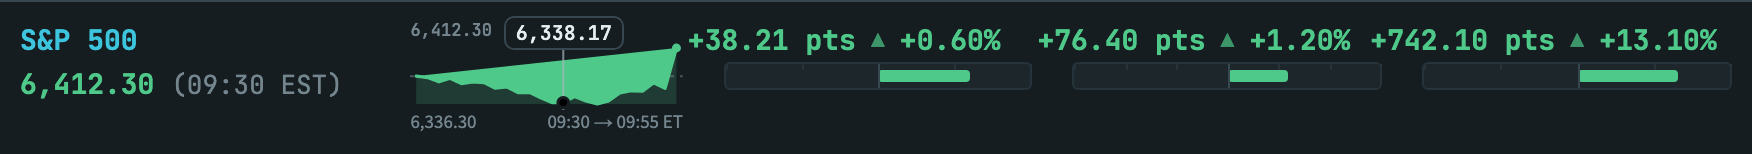
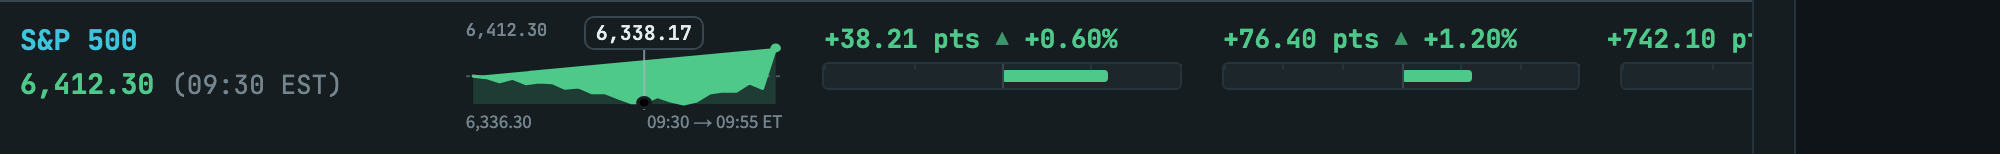
Three ways a quote table went wrong
None of them were the trend drawing, which still renders exactly as it was
built — docs/mock-brief-trend.png is that code, today.

1. A brief shipped with SPARKS missing ENTIRELY and said nothing. The TREND
   column never disappears, so every row drew an em dash and the table kept
   its shape, which is the right rendering and the wrong silence: the run
   did not know it had dropped the feature and neither did the reader.
   `brief render` now names the rows that have no series, on stderr, while
   the run can still go back for the data.

2. A wide figure painted over the next column. "+3,286.69 pts" is one nowrap
   line pinned either side of the bar's zero, so it grows out of its cell;
   measured, it starts colliding below about 1050px. Shrinking the type only
   moves that width, so the figures are 13px AND the market tables keep
   1000px between their three horizon columns, scrolling inside their own
   wrapper below that the way every other table here already does. Nothing
   is clipped: zero spill from 1400px down to 420px, no page overflow.

3. "New this window" started at the left edge of a diverging scale, where it
   reads as a heading for the negative half. It now centres on the middle
   cell, over the zero — the email's version of the page's dot_head rule.
   Scoped to that caption: 1D, 1W and YTD name their column rather than
   caption a scale, and stay left-aligned, which two tests already said.

diff --git a/brief/render.py b/brief/render.py
@@ -661,7 +661,7 @@ td.num{{text-align:right;white-space:nowrap}}
 .barfig{{display:block;text-align:center;margin-bottom:2px}}
 /* and its ARROW is what sits on the zero: the mark that says which way belongs
    on the line the bar grows from, not at the end of the text. */
-.barfig.trio{{position:relative;height:19px;width:100%;min-width:150px;max-width:280px;margin:0 auto 2px}}
+.barfig.trio{{position:relative;height:19px;width:100%;min-width:150px;max-width:280px;margin:0 auto 2px;font-size:13px}}
 .barfig.trio span{{position:absolute;top:0;white-space:nowrap}}
 .barfig.trio .l{{right:50%;margin-right:11px}}
 .barfig.trio .c{{left:50%;transform:translateX(-50%);font-size:.82em;opacity:.7}}
@@ -682,6 +682,14 @@ ul{{margin:8px 0 0;padding-left:20px}} li{{margin:9px 0;line-height:1.55}}
 .grid3 .card.wide{{grid-column:1/-1}}
 .grid3 .card.wide .tbl-wrap table{{font-size:14px}} .grid3 .card.wide th,.grid3 .card.wide td{{padding:9px 10px}}
 .grid3 .card.wide .dbar,.grid3 .card.wide .daxis{{width:100%;min-width:120px;max-width:none}}
+/* A horizon figure is one nowrap line pinned either side of the bar's zero,
+   so a wide number ("+3,286.69 pts") grows OUT of its cell and paints over
+   the column beside it. Shrinking the type only moves the width at which
+   that happens; the three horizon columns need about 1000px between them,
+   so below that the table scrolls inside its own wrapper the way every
+   other table here already does. Nothing is clipped and no digit is lost.
+   Not inside the phone breakpoint, where the table is not a table. */
+@media (min-width:601px){{.grid3 .card.wide .tbl-wrap table{{min-width:1000px}}}}
 .hp .t{{font-weight:600;font-family:Archivo,sans-serif}} .hp.warn .t{{color:var(--warning)}} .hp.ok .t{{color:var(--positive)}} .hp.info .t{{color:var(--accent)}}
 details{{background:var(--surface);border:1px solid var(--line);border-radius:10px;padding:10px 16px;margin-top:18px}} summary{{cursor:pointer;font-family:Archivo,sans-serif;font-weight:600;font-size:14px}}
 .allow p{{font-size:12.5px;margin:6px 0}} .allow b{{color:var(--ink-2)}}
@@ -2154,7 +2162,7 @@ def card(inner): return f'<table width="100%" cellpadding="0" cellspacing="0" st
 class Raw(str):
     """A header string that is already HTML and must not be escaped."""
 def th(t, w=None): return f'<th align="left"{f" width={chr(34)}{w}{chr(34)}" if w else ""} style="font:600 10.5px {F_H};text-transform:uppercase;color:{L["ink3"]};padding:8px 8px;border-bottom:2px solid {L["lineS"]}">{t if isinstance(t, Raw) else e(t)}</th>'
-def th_axis(name, labels):
+def th_axis(name, labels, over_zero=False):
     """Two lines: the column name, then its axis.
 
     The axis is laid out as three equal cells rather than a run of text, so the
@@ -2164,16 +2172,21 @@ def th_axis(name, labels):
     geometry it describes. The email cannot position elements, but equal-width
     table cells with align= give the same result, and both survive the sanitizer.
 
-    THE NAME IS CENTRED FOR THE SAME REASON. Left-aligned, "Direction · amount"
-    began at the far end of a diverging track and read as a heading for the
-    negative half; the zero it describes is at the middle cell, i.e. the middle
-    of the column, so the name sits there too.
+    `over_zero` centres the NAME on that same middle cell. It is for a caption
+    that describes the whole diverging scale — "New this window" over an
+    Out ← 0 → In axis — which reads as a heading for the negative half when it
+    starts at the left edge, the page's `dot_head` case. It is NOT for "1D",
+    "1W" or "YTD": those name their column rather than caption a scale, and
+    they are left-aligned on purpose.
     """
     lo, mid, hi = labels
     cell = f"font:400 10px {F_M};text-transform:none;letter-spacing:0;color:{L['ink3']};padding:0"
+    # align= rather than a style, because the sanitizer keeps attributes and
+    # strips text-align from a <div> often enough not to rely on it. The name
+    # centres on 50%, which is where the middle cell below centres its "0".
     return Raw(
-        f'<div>{e(name)}</div>'
-        f'<table width="100%" cellpadding="0" cellspacing="0" style="margin-top:1px">'
+        (f'<div align="center">{e(name)}</div>' if over_zero else f'<div>{e(name)}</div>')
+        + f'<table width="100%" cellpadding="0" cellspacing="0" style="margin-top:1px">'
         f'<tr><td width="33%" align="left" style="{cell}">{e(lo)}</td>'
         f'<td width="34%" align="center" style="{cell}">{e(mid)}</td>'
         f'<td width="33%" align="right" style="{cell}">{e(hi)}</td></tr></table>')
@@ -2746,7 +2759,7 @@ def email_html(budget=None):
                     + '</td>'])
         inner += h3("AI services — billed year to date") + tbl(
             [f'Service · share AI spend {AI_SPEND["year"]}', f'Billed {AI_SPEND["year"]}',
-             th_axis("New this window", money_labels(AI_AXIS))],
+             th_axis("New this window", money_labels(AI_AXIS), over_zero=True)],
             rws, ["40%", "22%", "38%"]) + cap(ai_spend_caption())
     if FIN_INTERNAL:
         inner += h3("Transfers between your own accounts") + f'<div style="color:{L["ink3"]};font-style:italic">{e(FIN_INTERNAL)}</div>'

diff --git a/tests/test_units.py b/tests/test_units.py
@@ -853,3 +853,51 @@ class TestAGateNeedsAFloor(unittest.TestCase):
         self.assertIn("at most ONCE", prompt)
         self.assertNotIn("rewrite the draft as many times as it takes", prompt,
                          "unbounded retries are what produced the silent day")
+
+
+class TestASilentlyMissingTrendIsLoud(unittest.TestCase):
+    """The TREND column never disappears, so its absence has to be announced.
+
+    An absent series draws an em dash and the table keeps its shape, which is
+    the right rendering and the wrong silence: on 2026-09-26 a brief shipped
+    with SPARKS missing entirely, every row reading "—", and nothing said so.
+    The run did not know it had dropped the feature and neither did the reader.
+    """
+
+    def _render(self, payload_obj):
+        import subprocess, tempfile
+        d = tempfile.mkdtemp()
+        f = os.path.join(d, "p.json")
+        with open(f, "w", encoding="utf-8") as fh:
+            json.dump(payload_obj, fh)
+        r = subprocess.run([sys.executable, "-m", "brief", "render", f,
+                            "--out-dir", d, "--date", "2026-03-03"],
+                           cwd=ROOT, capture_output=True, text=True)
+        self.assertEqual(r.returncode, 0, r.stderr)
+        return r.stderr
+
+    def test_a_payload_with_no_sparks_at_all_says_so_by_name(self):
+        p = json.load(open(SAMPLE, encoding="utf-8"))
+        p.pop("SPARKS", None)
+        err = self._render(p)
+        self.assertIn("no trend series", err)
+        self.assertIn("SPARKS is absent entirely", err)
+        self.assertIn(p["MKT_ROWS"][0][0], err, "it names the rows that lost their trend")
+
+    def test_a_partial_payload_counts_what_is_missing(self):
+        p = json.load(open(SAMPLE, encoding="utf-8"))
+        rows = [r[0] for r in p["MKT_ROWS"]] + [r[0] for r in p["FUNDS"]]
+        self.assertGreater(len(rows), 1)
+        p["SPARKS"] = {rows[0]: {"series": [1.0, 2.0, 3.0], "window": "09:30 → 09:55 ET"}}
+        err = self._render(p)
+        self.assertIn("no trend series", err)
+        self.assertNotIn("absent entirely", err)
+        self.assertNotIn(f" {rows[0]},", err, "the row that HAS a series is not listed")
+
+    def test_a_complete_payload_says_nothing(self):
+        p = json.load(open(SAMPLE, encoding="utf-8"))
+        names = ([r[0] for r in p["MKT_ROWS"]] + [r[0] for r in p["FUNDS"]]
+                 + [r[0] for r in p["STOCKS"]] + [r[0] for r in p["CRYPTO_ROWS"]])
+        p["SPARKS"] = {n: {"series": [1.0, 2.0, 3.0], "window": "09:30 → 09:55 ET"}
+                       for n in names}
+        self.assertNotIn("no trend series", self._render(p))

diff --git a/brief/__main__.py b/brief/__main__.py
@@ -356,6 +356,39 @@ def _verify(source, readback, attempt=1):
     return 5
 
 
+def _warn_missing_sparks(payload):
+    """Say which quote rows have no trend series, loudly, by name.
+
+    The TREND column never disappears — an absent series draws an em dash, so
+    the table keeps its shape whatever the run managed to gather. The cost of
+    that is silence: on 2026-09-26 a brief shipped with SPARKS missing
+    ENTIRELY, every row reading "—", and nothing anywhere said so. The run
+    did not know it had dropped the feature and neither did the reader.
+
+    A drawing nobody asked for is a nice-to-have. A drawing that was asked for
+    and is quietly absent is a defect, and this is what makes it visible while
+    the run can still go back for the data.
+    """
+    sparks = payload.get("SPARKS") or {}
+    wanted = []
+    for key, idx in (("MKT_ROWS", 0), ("FUNDS", 0), ("STOCKS", 0), ("CRYPTO_ROWS", 0)):
+        for row in payload.get(key) or []:
+            if row and str(row[idx]).strip():
+                wanted.append(str(row[idx]).strip())
+    if not wanted:
+        return
+    missing = [n for n in wanted if not (sparks.get(n) or {}).get("series")]
+    if not missing:
+        return
+    where = "SPARKS is absent entirely" if not sparks else f"{len(missing)} of {len(wanted)} rows"
+    print(f"WARNING: no trend series for {where} — the TREND column will draw "
+          f'"—" for: {", ".join(missing[:8])}'
+          + (f" (+{len(missing) - 8} more)" if len(missing) > 8 else "")
+          + "\n  The column is never removed, so a brief with no series still "
+            "renders; it just says nothing. If the series were meant to be "
+            "gathered, gather them and render again.", file=sys.stderr)
+
+
 def _check_attachments(paths, out_dir=None, connector=None):
     """Are the files within the size limits, and does the WHOLE call fit?
 
@@ -683,6 +716,7 @@ def main(argv=None):
           f"do not read {os.path.basename(email)} itself, it exceeds the read cap.")
     print(f"build {marker} — this marker appears in all three outputs. Quote it "
           "when you report the run; a brief without it did not come from here.")
+    _warn_missing_sparks(payload)
     if size > EMAIL_BUDGET:
         print(f"NOTE: the body is {size - EMAIL_BUDGET:,} B over Gmail's clip "
               f"threshold, so Gmail will show \"[Message clipped] View entire "

diff --git a/tests/test_rendering.py b/tests/test_rendering.py
@@ -302,16 +302,27 @@ class TestRendering(_BrowserCase):
                     const n = r.getBoundingClientRect();
                     const box = th.getBoundingClientRect();
                     const pad = parseFloat(getComputedStyle(th).paddingLeft) || 0;
+                    const mid = cells[1].getBoundingClientRect();
                     out.push({name: name.textContent.trim(),
-                              d: n.left - (box.left + pad)});
+                              d: n.left - (box.left + pad),
+                              dc: (n.left + n.width / 2) - (mid.left + mid.width / 2)});
                 }
                 return out;
             }""")
             self.assertGreaterEqual(len(lefts), 4,
                                     f"expected axis headings @{width}px, saw {len(lefts)}")
+            captions = [h for h in lefts if h["name"] == "New this window"]
+            self.assertTrue(captions, "the AI money caption must be among them")
             for h in lefts:
-                self.assertLessEqual(abs(h["d"]), 2.0,
-                                     f"{h['name']!r} is {h['d']:.1f}px from the column's left edge")
+                if h in captions:
+                    # a caption for a whole diverging scale, not a column label:
+                    # from the left edge it reads as a heading for the negative
+                    # half, so it sits on the middle cell, over the zero
+                    self.assertLessEqual(abs(h["dc"]), 2.0,
+                                         f"{h['name']!r} is {h['dc']:.1f}px off the zero")
+                else:
+                    self.assertLessEqual(abs(h["d"]), 2.0,
+                                         f"{h['name']!r} is {h['d']:.1f}px from the column's left edge")
             pg.close()
 
     def test_severity_chips_never_wrap_in_the_email(self):
